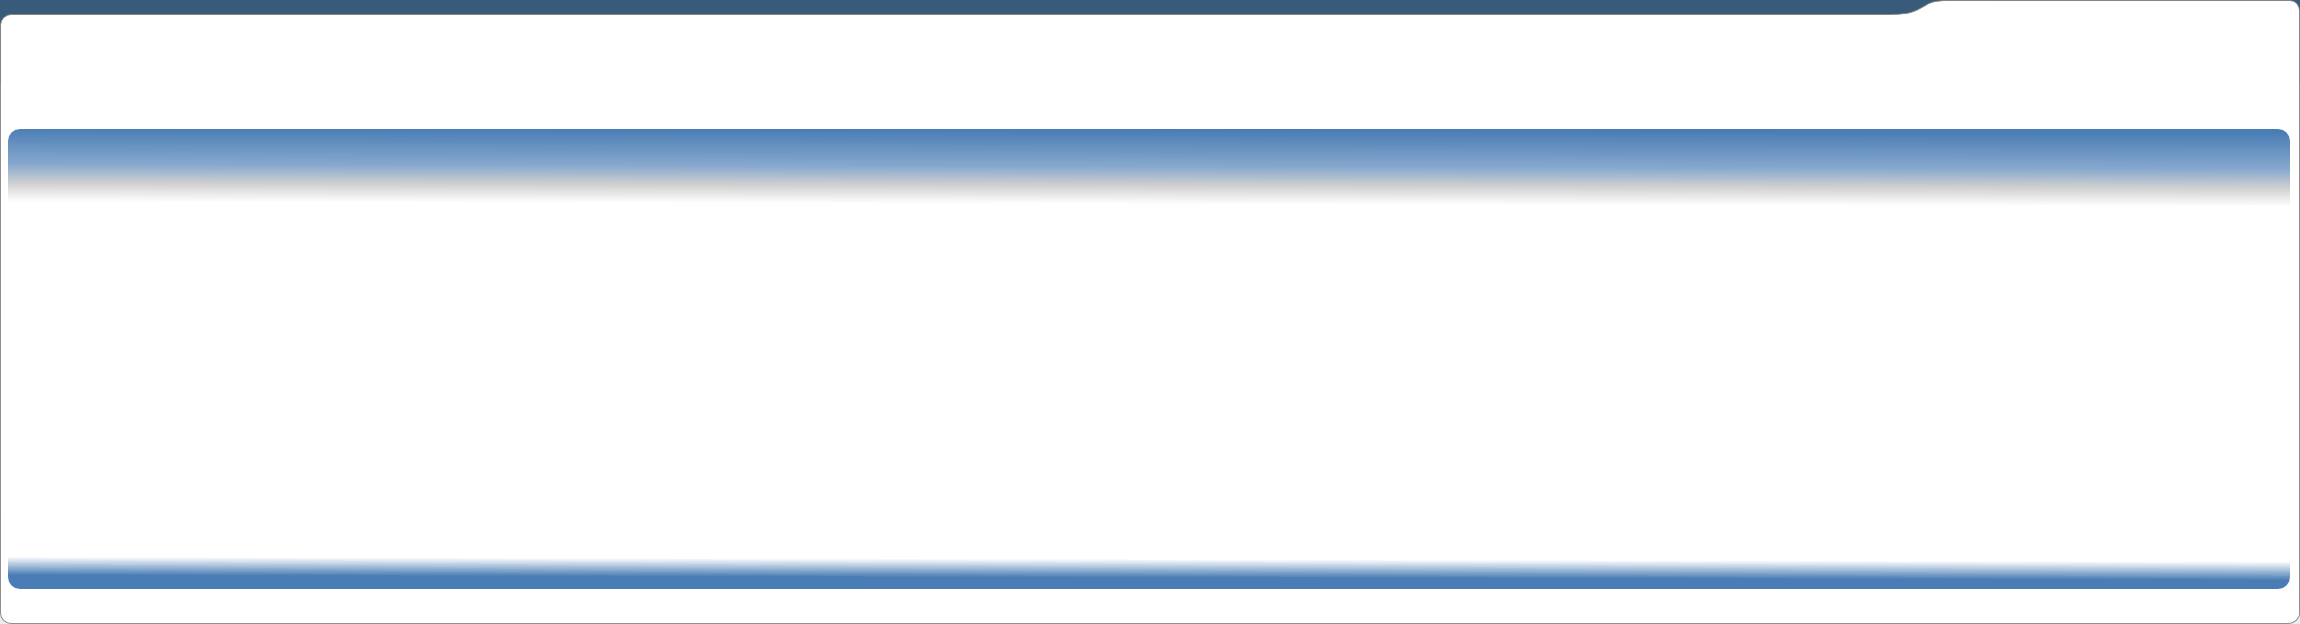
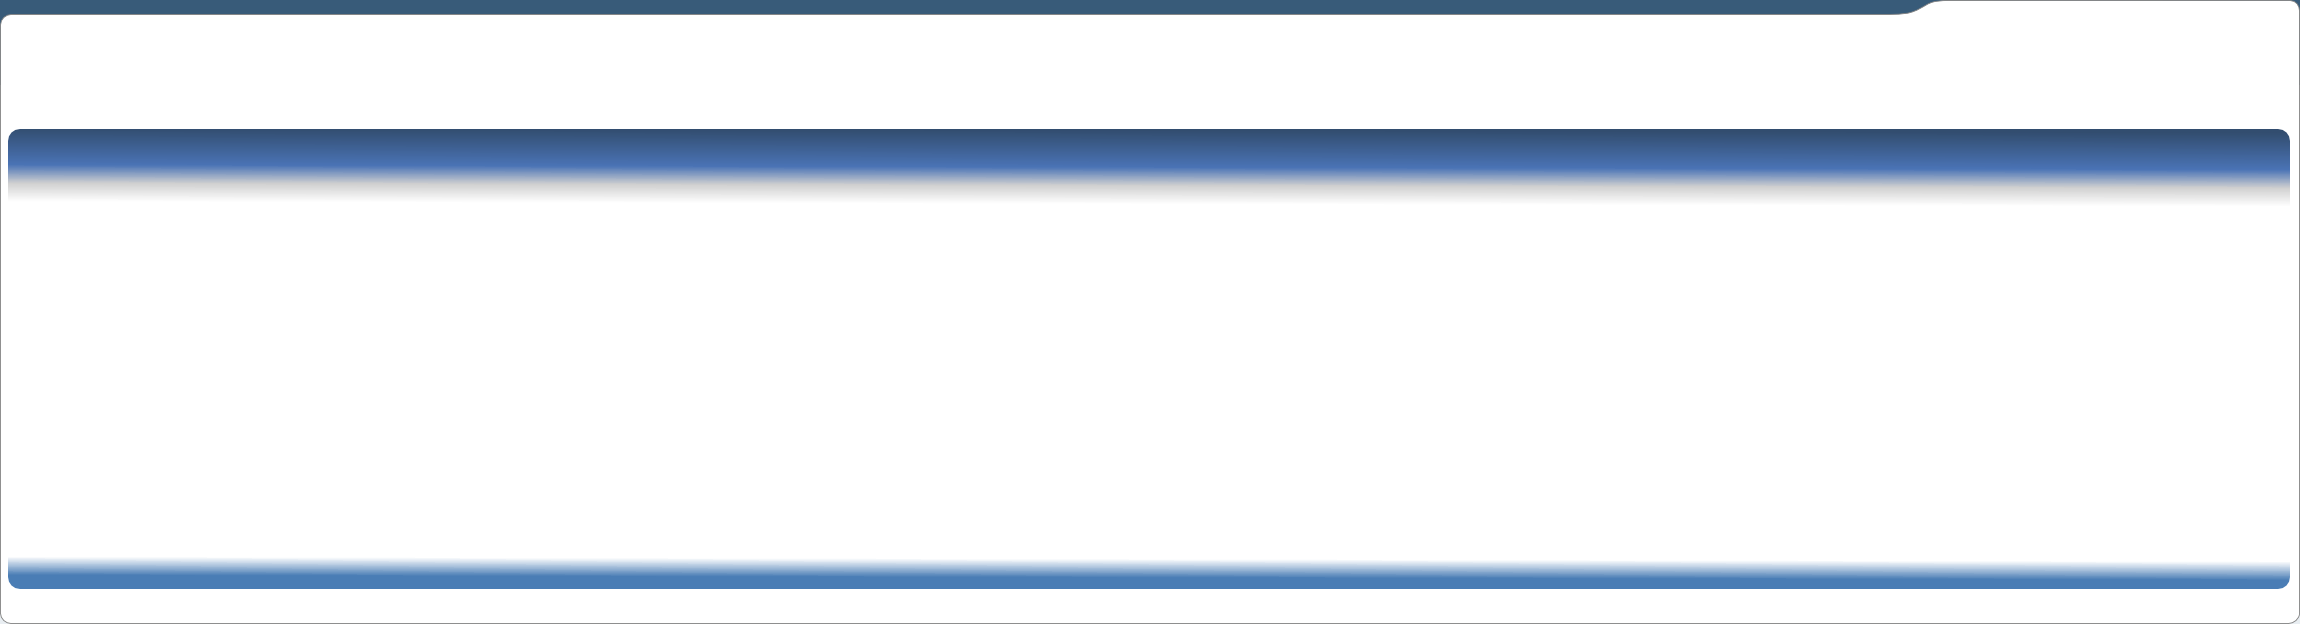
Improve the main_block colours, and include changes made to site version

Changed region(s): [[0.0, 0.1827, 1.0, 0.3045]]

diff --git a/app/football.html b/app/football.html
@@ -46,9 +46,11 @@ pageTracker._trackPageview();
 <div id="wrapper"><div class="frame">
 <div id="content">
 	<!-- Main Content - start -->
-	<div id="notice">The Football Pool is just one of the exiting facilities available to the members of our community.  To
-		use it you have to be logged on to the forum, and at the moment you aren't.  If you are
-		member please <a href="/forum/index.php?action=login">Login First</a>.  If not, <a href="/forum/index.php?action=register">please consider joining</a>.</div>
+	<div id="notice"><p>The Football Pool is just one of the exiting facilities available to the members of our community.</p>
+		<p>To use it you have to be logged on to the forum, and at the moment you aren't.  If you are member please 
+		<a href="/forum/index.php?action=login">Login First</a>.  If not, <a href="/forum/index.php?action=register">please
+		consider joining</a>.</p>
+	</div>
 
 </div>
 </div></div> <!-- #wrapper .frame -->

diff --git a/app/nostart.html b/app/nostart.html
@@ -46,7 +46,7 @@ pageTracker._trackPageview();
 <div id="wrapper"><div class="frame">
 <div id="content">
 <div id="notice">
-<p>Unfortunately there are no football competitions running just yet, please check back later. 
+<p>Unfortunately there are no football competitions running just yet, please check back later.</p>
 </div>
 </div></div> <!-- #wrapper .frame -->
 <div id="footer"><div class="frame">

diff --git a/app/admin.php b/app/admin.php
@@ -63,6 +63,15 @@ window.addEvent('domready', function() {
 
 	// -->
 </script>
+<script type="text/javascript">
+var gaJsHost = (("https:" == document.location.protocol) ? "https://ssl." : "http://www.");
+document.write(unescape("%3Cscript src='" + gaJsHost + "google-analytics.com/ga.js' type='text/javascript'%3E%3C/script%3E"));
+</script>
+<script type="text/javascript">
+try {
+var pageTracker = _gat._getTracker("UA-xxxxxxx-1");
+pageTracker._trackPageview();
+} catch(err) {}</script>
 
 <div id="header"><div class="frame">
 	<div id="top_section">
